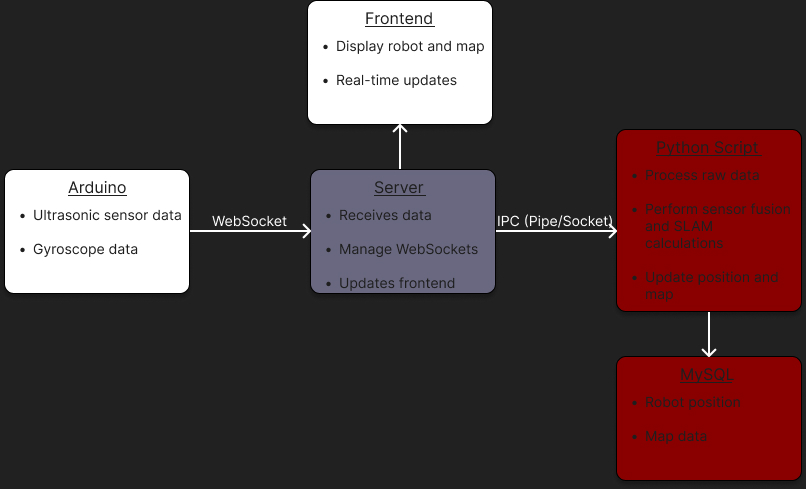
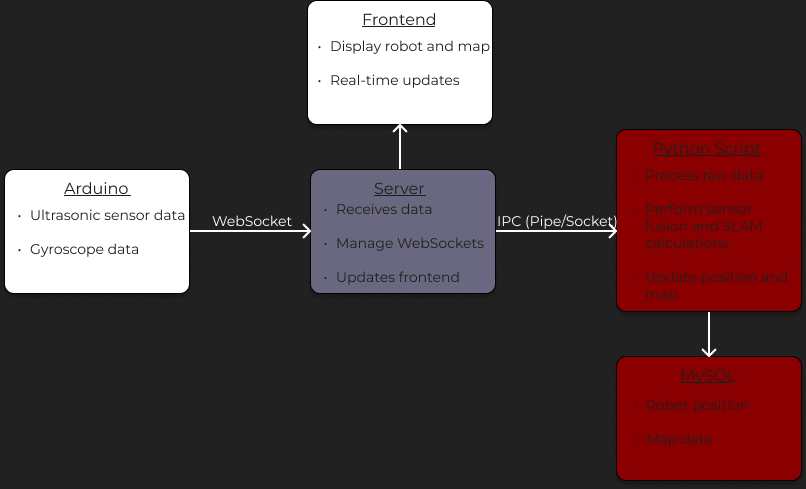
project one??

diff --git a/projects.html b/projects.html
@@ -24,25 +24,63 @@
   <section class="projects">
     <div class="project-item">
         <div class="project-image">
-            <img src="./assets/arduino_slam.jpg" alt="Project Image">
+            <img src="./assets/arduino_slam.jpg" alt="Top Image">
+            <img src="./assets/robot_prototype.jpeg" alt="Bottom Image">
         </div>
         <div class="project-description">
-            <h2>Project Title</h2>
+            <h2>Network-Based EKF SLAM</h2>
             <p>
-                Project info be like
+                This project extends and applies my senior capstone by implementing 
+                EKF-SLAM on a robotic system using an Arduino, a server, and a custom Python processing pipeline. 
+                Unlike traditional SLAM implementations that rely on established libraries, I am manually implementing 
+                core functions to deepen my understanding of localization, mapping, and data processing. 
+                This approach increases complexity but I believe will be a valuable learning experience.
+                <br>
+                <br>
+                <b>Software</b>
+                <br>
+                As seen in the top image, the Arduino will transmit sensor data via WebSockets to a Python server. 
+                The server will then pass the data through IPC to a Python script, which will handle sensor fusion, 
+                SLAM calculations, and updating/storing the robot's position and map in a MySQL database. 
+                The frontend will communicate with the database through the server via WebSockets, enabling real-time 
+                updates and visualization of the robot's localization and map.
+                <br>
+                <br>
+                <b>Hardware</b>
+                <br>
+                The hardware setup is relatively simple: an Arduino Uno R4, an ultrasonic distance sensor (28015), 
+                two DC gear motors, an L298N motor driver, and an MPU-6050 gyroscope. They can be seen in the bottom image.
+                <br>
+                <br>
+                <b>Challenges</b>
+                <br>
+                One of the challenges of this project that I believe will have a big impact is the 
+                affordable hardware being used.
+                The Arduino Uno R4, ultrasonic distance sensor (28015), and MPU-6050 gyroscope 
+                are affordable but introduce limitations in accuracy, noise, and data reliability. 
+                This will make sensor fusion and noise filtering critical to achieving stable SLAM 
+                performance. Another challenge is the DC gear motors and L298N motor driver, which do 
+                not provide built-in encoder feedback. This makes odometry-based localization less reliable, 
+                so I plan on overcoming this using a fixed speed, and working in a step fashion. Thus, compensating for these 
+                inaccuracies through software-based error correction and probabilistic filtering will be an 
+                important aspect of the project. <br>
+                On the software side, manually implementing EKF-SLAM without existing libraries adds 
+                a ton of complexity. Efficiently handling real-time data transmission between the Arduino, 
+                Python server, and frontend requires optimized WebSockets and interprocess 
+                communication (IPC). Ensuring that data is processed fast enough to keep up with the 
+                robot's movement will be key to maintaining a responsive system. Despite the outcome of the project,
+                it will provide valuable insights into working with robotics systems while further deepening my 
+                understanding of SLAM, sensor fusion, and real-time robotics software.
             </p>
             <!-- <a href="link-to-project" target="_blank">View Project</a> -->
         </div>
     </div>
     <div class="project-item">
-      <div class="project-image">
-          <img src="./assets/robot_prototype.jpeg" alt="Project Image">
-      </div>
           <!-- <a href="link-to-project" target="_blank">View Project</a> -->
       </div>
       <div class="project-item">
         <div class="project-image">
-            <img src="arduino_slam.jpg" alt="Project Image">
+            <img src="ar.jpg" alt="Project Image">
         </div>
         <div class="project-description">
             <h2>Project Title</h2>

diff --git a/styles.css b/styles.css
@@ -173,13 +173,20 @@ header {
   justify-content: space-between;
   width: 100%;
   max-width: 1200px; 
+  font-family: "Montserrat", sans-serif;
   gap: 20px;
+}
+.project-images {
+  display: flex;
+  flex-direction: column; /* Stack images vertically */
+  gap: 10px; /* Adjust spacing between images */
 }
 
 .project-image img {
   max-width: 100%;
   height: auto;
   width: 450px; 
+  display: block;
 }
 
 .project-description {
@@ -188,6 +195,10 @@ header {
 
 .project-description h2 {
   margin-bottom: 10px;
+  font-size: 30px;
+}
+.project-description p {
+  font-size: 20px;
 }
 
 .project-description a {
@@ -195,6 +206,7 @@ header {
   text-decoration: none; 
   font-weight: bold;
   margin-top: 10px;
+  font-size: 30px;
 }
 
 .project-description a:hover {
